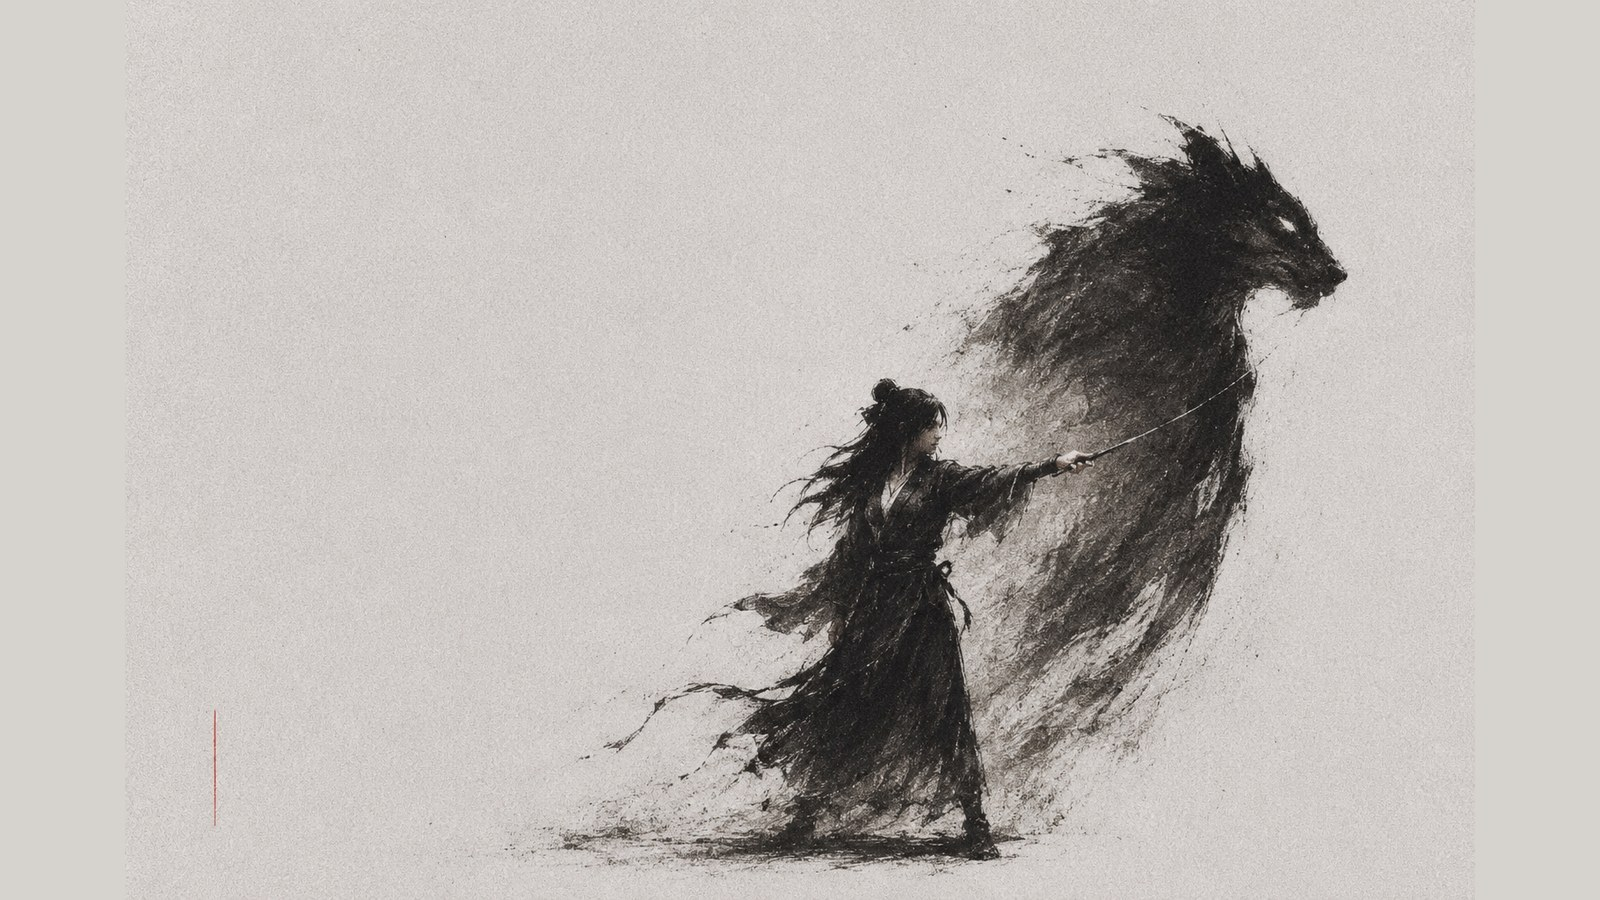
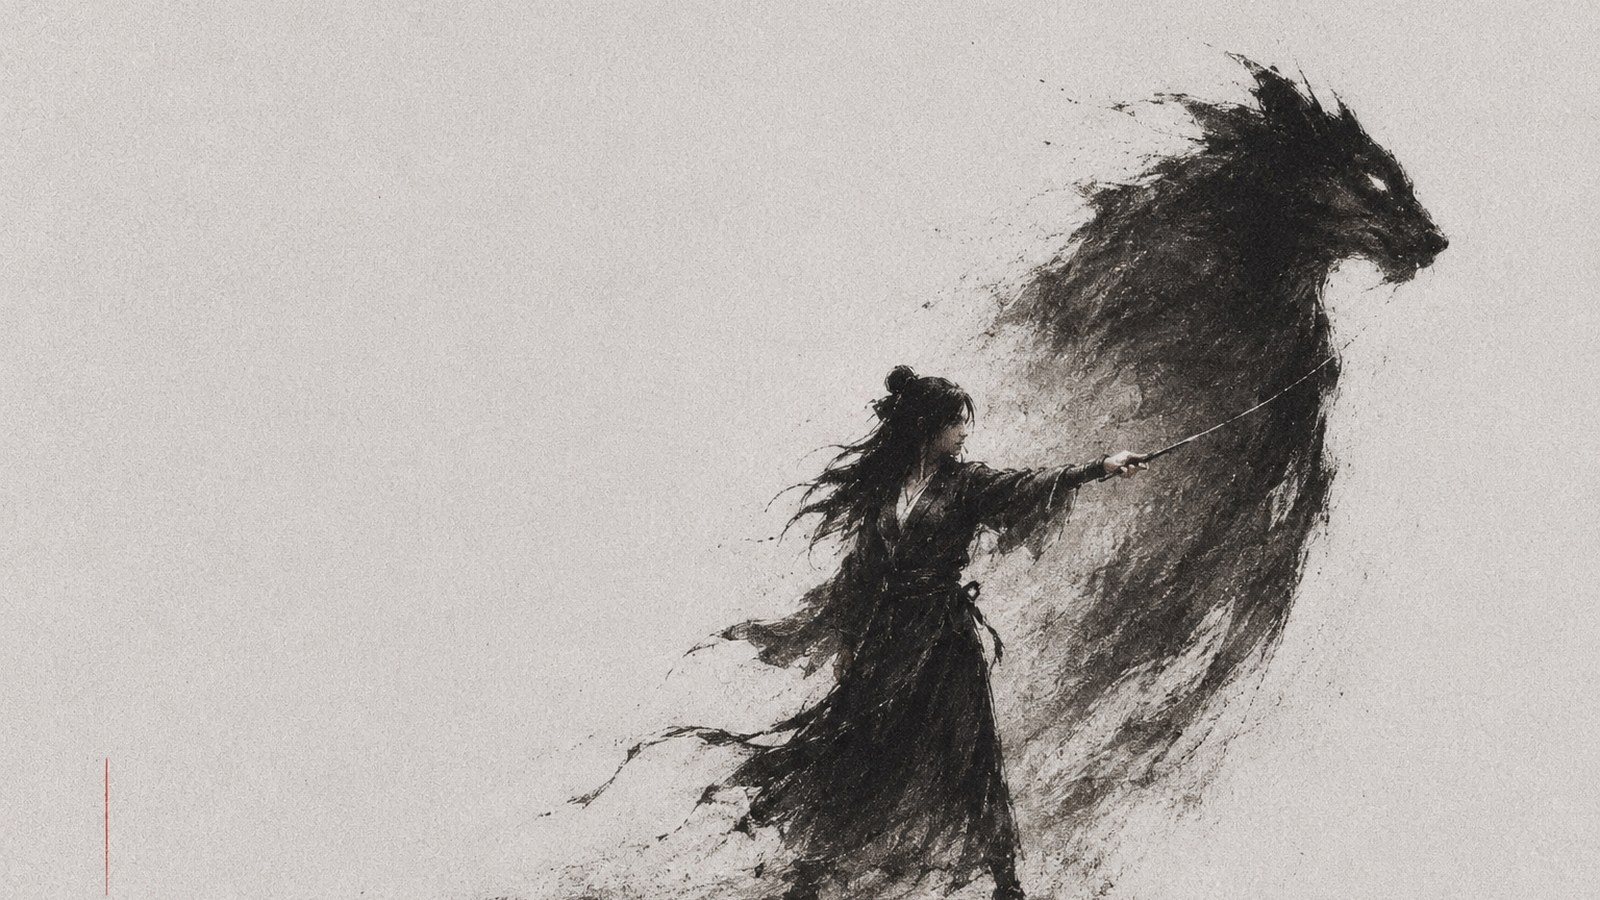
fork art fills the box; tools marquee; orange underline on Contact
- AudienceFork: re-cropped the beast illustrations to fill the 16:9 box (cover)
  so they take the whole frame, grey paper background like the urgency image.
- ClientsCloud: replaced "Marques accompagnées" with "Les outils sur lesquels
  on forme" and a scrolling marquee of AI tool logos (ChatGPT, Claude, Gemini,
  Mistral, Copilot, Perplexity, Midjourney, Runway, ElevenLabs, Hugging Face,
  DaVinci, Figma, Make). Added a few missing logos.
- Header: Contact link gets an orange underline.

Changed region(s): [[0.2812, 0.0622, 0.9062, 1.0]]

diff --git a/src/components/ClientsCloud.tsx b/src/components/ClientsCloud.tsx
@@ -1,72 +1,50 @@
 "use client";
 
-import Image from "next/image";
 import { useEffect, useRef } from "react";
 import { gsap } from "gsap";
-import { useTranslations } from "next-intl";
 
-const CLIENTS = [
-  "CHANEL",
-  "X-RITE",
-  "SOFITEL",
-  "GS MONACO",
-  "VEORIA",
-  "RUTHERFORD",
-  "TOP AKITA INU",
-  "CAPEFRONT",
-  "STUDIO DE LA ROCHE",
-  "MEASURECOLOR",
+/** Les outils IA sur lesquels on forme. Logos en silhouette, défilé infini. */
+const TOOLS = [
+  { name: "ChatGPT", logo: "/images/logos/chatgpt.svg" },
+  { name: "Claude", logo: "/images/logos/claude.svg" },
+  { name: "Gemini", logo: "/images/logos/gemini.svg" },
+  { name: "Mistral", logo: "/images/logos/mistral.svg" },
+  { name: "Copilot", logo: "/images/logos/copilot.svg" },
+  { name: "Perplexity", logo: "/images/logos/perplexity.svg" },
+  { name: "Midjourney", logo: "/images/logos/midjourney.svg" },
+  { name: "Runway", logo: "/images/logos/runway.svg" },
+  { name: "ElevenLabs", logo: "/images/logos/elevenlabs.svg" },
+  { name: "Hugging Face", logo: "/images/logos/huggingface.svg" },
+  { name: "DaVinci Resolve", logo: "/images/logos/davinci-resolve.svg" },
+  { name: "Figma", logo: "/images/logos/figma.svg" },
+  { name: "Make", logo: "/images/logos/make.svg" },
 ];
 
 /**
- * ClientsCloud, wordmarks de marques accompagnées dans un marquee
- * infini horizontal piloté par GSAP. Inspiration luxe / Hermès :
- * un seul "ruban" qui défile lentement sans coupure.
+ * Défilé infini des outils IA sur lesquels on forme. Marquee GSAP, un seul
+ * ruban qui boucle sans couture. Logos en silhouette sombre.
  */
 export function ClientsCloud() {
-  const t = useTranslations("home");
   const trackRef = useRef<HTMLDivElement | null>(null);
 
   useEffect(() => {
     const el = trackRef.current;
     if (!el) return;
-
-    // The track contains the list twice; we translate by -50% to loop
-    // seamlessly. Slow speed for éditorial feel (~30s per cycle).
     const ctx = gsap.context(() => {
-      gsap.to(el, {
-        xPercent: -50,
-        ease: "none",
-        duration: 32,
-        repeat: -1,
-      });
+      gsap.to(el, { xPercent: -50, ease: "none", duration: 36, repeat: -1 });
     });
     return () => ctx.revert();
   }, []);
 
-  // Duplicate the list so the marquee loops without seam.
-  const loopList = [...CLIENTS, ...CLIENTS];
+  const loopList = [...TOOLS, ...TOOLS];
 
   return (
     <section className="border-t border-[var(--rule)]">
-      <div className="mx-auto max-w-7xl px-6 py-20 md:px-12 md:py-28">
-        {/* Wax seal, signature of the brands worked with */}
-        <div className="mx-auto mb-10 flex w-full max-w-[180px] justify-center md:max-w-[220px]">
-          <Image
-            src="/images/brand/emboss.png"
-            alt=""
-            width={2000}
-            height={2000}
-            sizes="(max-width: 768px) 180px, 220px"
-            className="h-auto w-full"
-          />
-        </div>
-        <p className="t-eyebrow text-center">{t("clientsTitle")}</p>
+      <div className="mx-auto max-w-7xl px-6 pt-20 md:px-12 md:pt-28">
+        <p className="t-eyebrow text-center">Les outils sur lesquels on forme</p>
       </div>
 
-      {/* Marquee, defiles infiniment, full width */}
-      <div className="relative mt-2 overflow-hidden pb-20 md:pb-28">
-        {/* Soft fade on the edges so the loop seam is invisible */}
+      <div className="relative mt-12 overflow-hidden pb-20 md:mt-14 md:pb-28">
         <div
           aria-hidden="true"
           className="pointer-events-none absolute inset-y-0 left-0 z-10 w-24 bg-gradient-to-r from-[var(--bg)] to-transparent md:w-40"
@@ -78,15 +56,17 @@ export function ClientsCloud() {
 
         <div
           ref={trackRef}
-          className="flex w-max gap-12 will-change-transform md:gap-20"
+          className="flex w-max items-center gap-14 will-change-transform md:gap-20"
         >
-          {loopList.map((c, i) => (
-            <span
-              key={`${c}-${i}`}
-              className="whitespace-nowrap font-mono text-xs uppercase tracking-[0.28em] text-[var(--fg-2)]/60 transition-colors hover:text-[var(--fg)] md:text-sm"
-            >
-              {c}
-            </span>
+          {loopList.map((tool, i) => (
+            // eslint-disable-next-line @next/next/no-img-element
+            <img
+              key={`${tool.name}-${i}`}
+              src={tool.logo}
+              alt={tool.name}
+              className="h-7 w-auto shrink-0 object-contain transition-opacity hover:opacity-100 md:h-8"
+              style={{ filter: "brightness(0)", opacity: 0.72 }}
+            />
           ))}
         </div>
       </div>

diff --git a/src/components/Header.tsx b/src/components/Header.tsx
@@ -102,7 +102,7 @@ export function Header({
             {showLang && <LangSwitch locale={locale} />}
             <Link
               href={`/${locale}/contact`}
-              className="font-mono text-[10px] uppercase tracking-[0.22em] text-[var(--fg)] transition hover:text-[var(--accent)]"
+              className="border-b border-[var(--accent)] pb-1 font-mono text-[10px] uppercase tracking-[0.22em] text-[var(--fg)] transition hover:text-[var(--accent)]"
             >
               Contact
             </Link>
